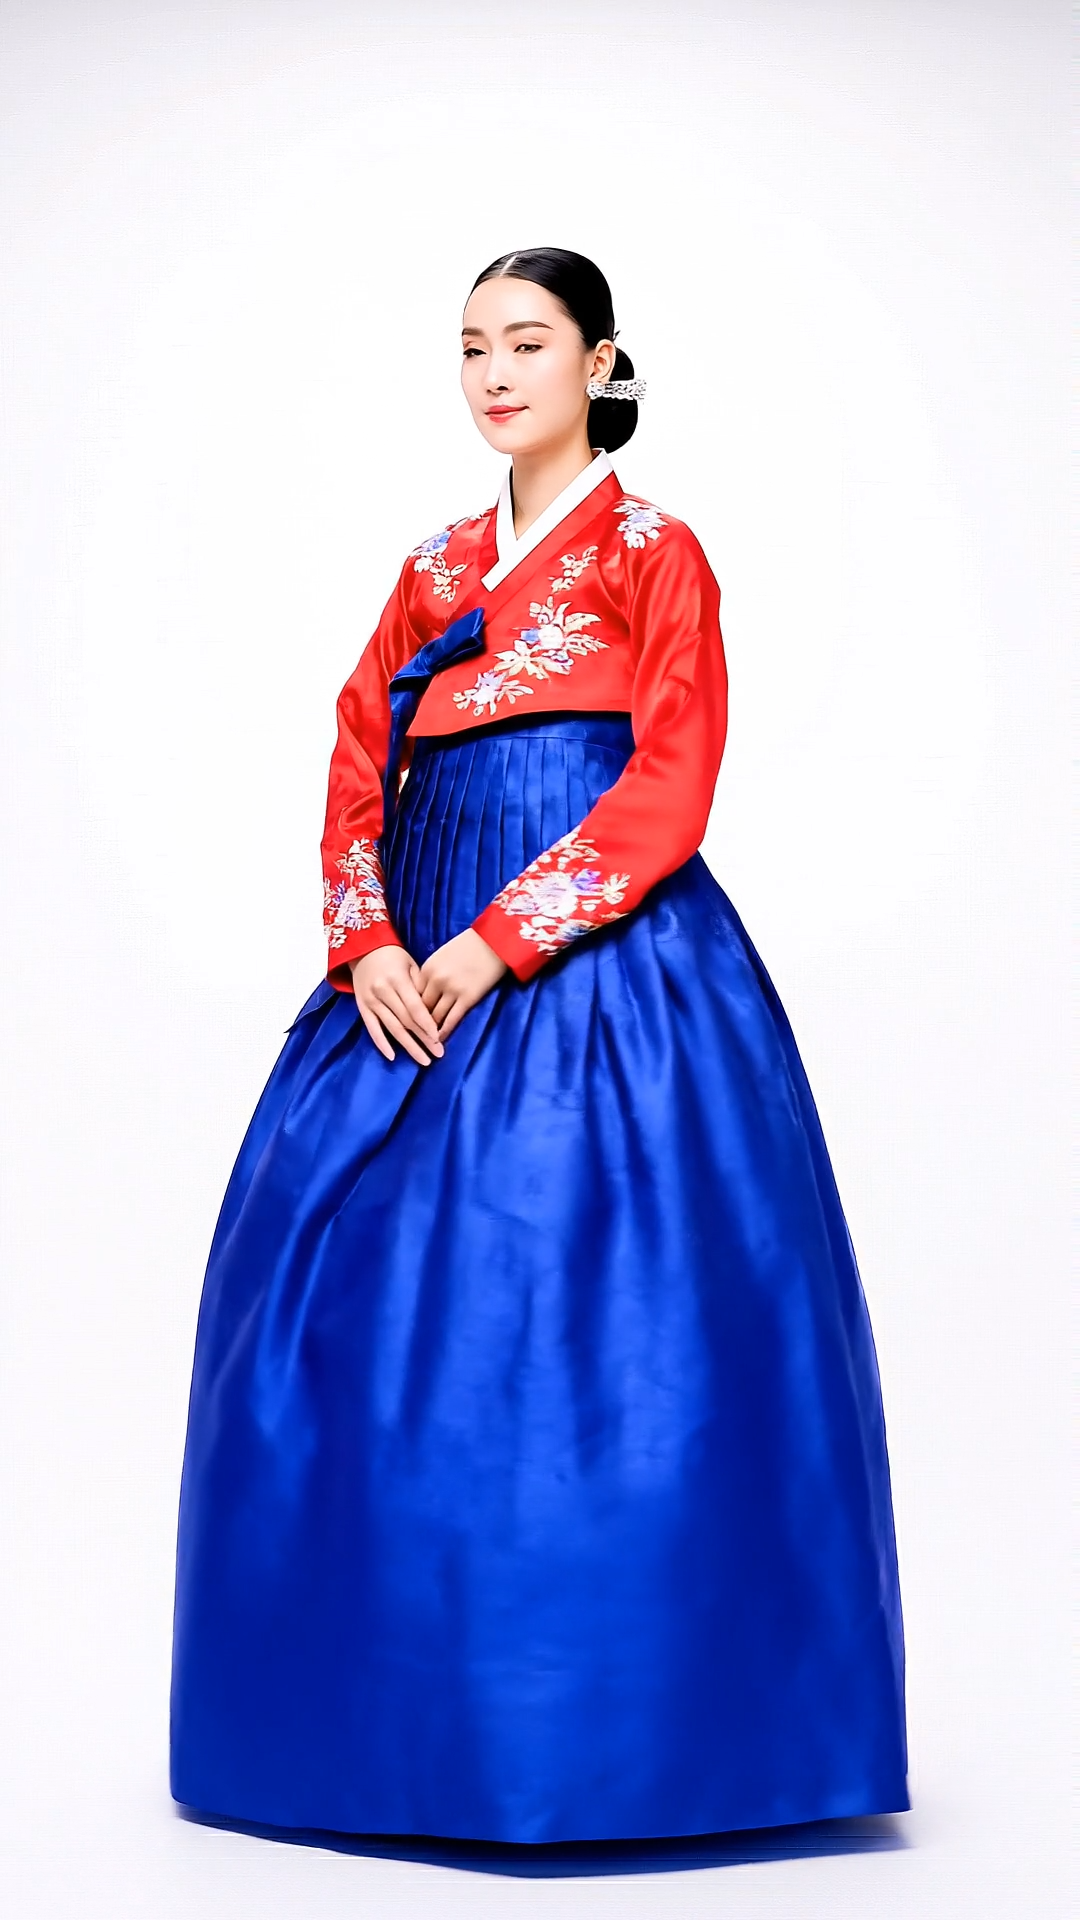
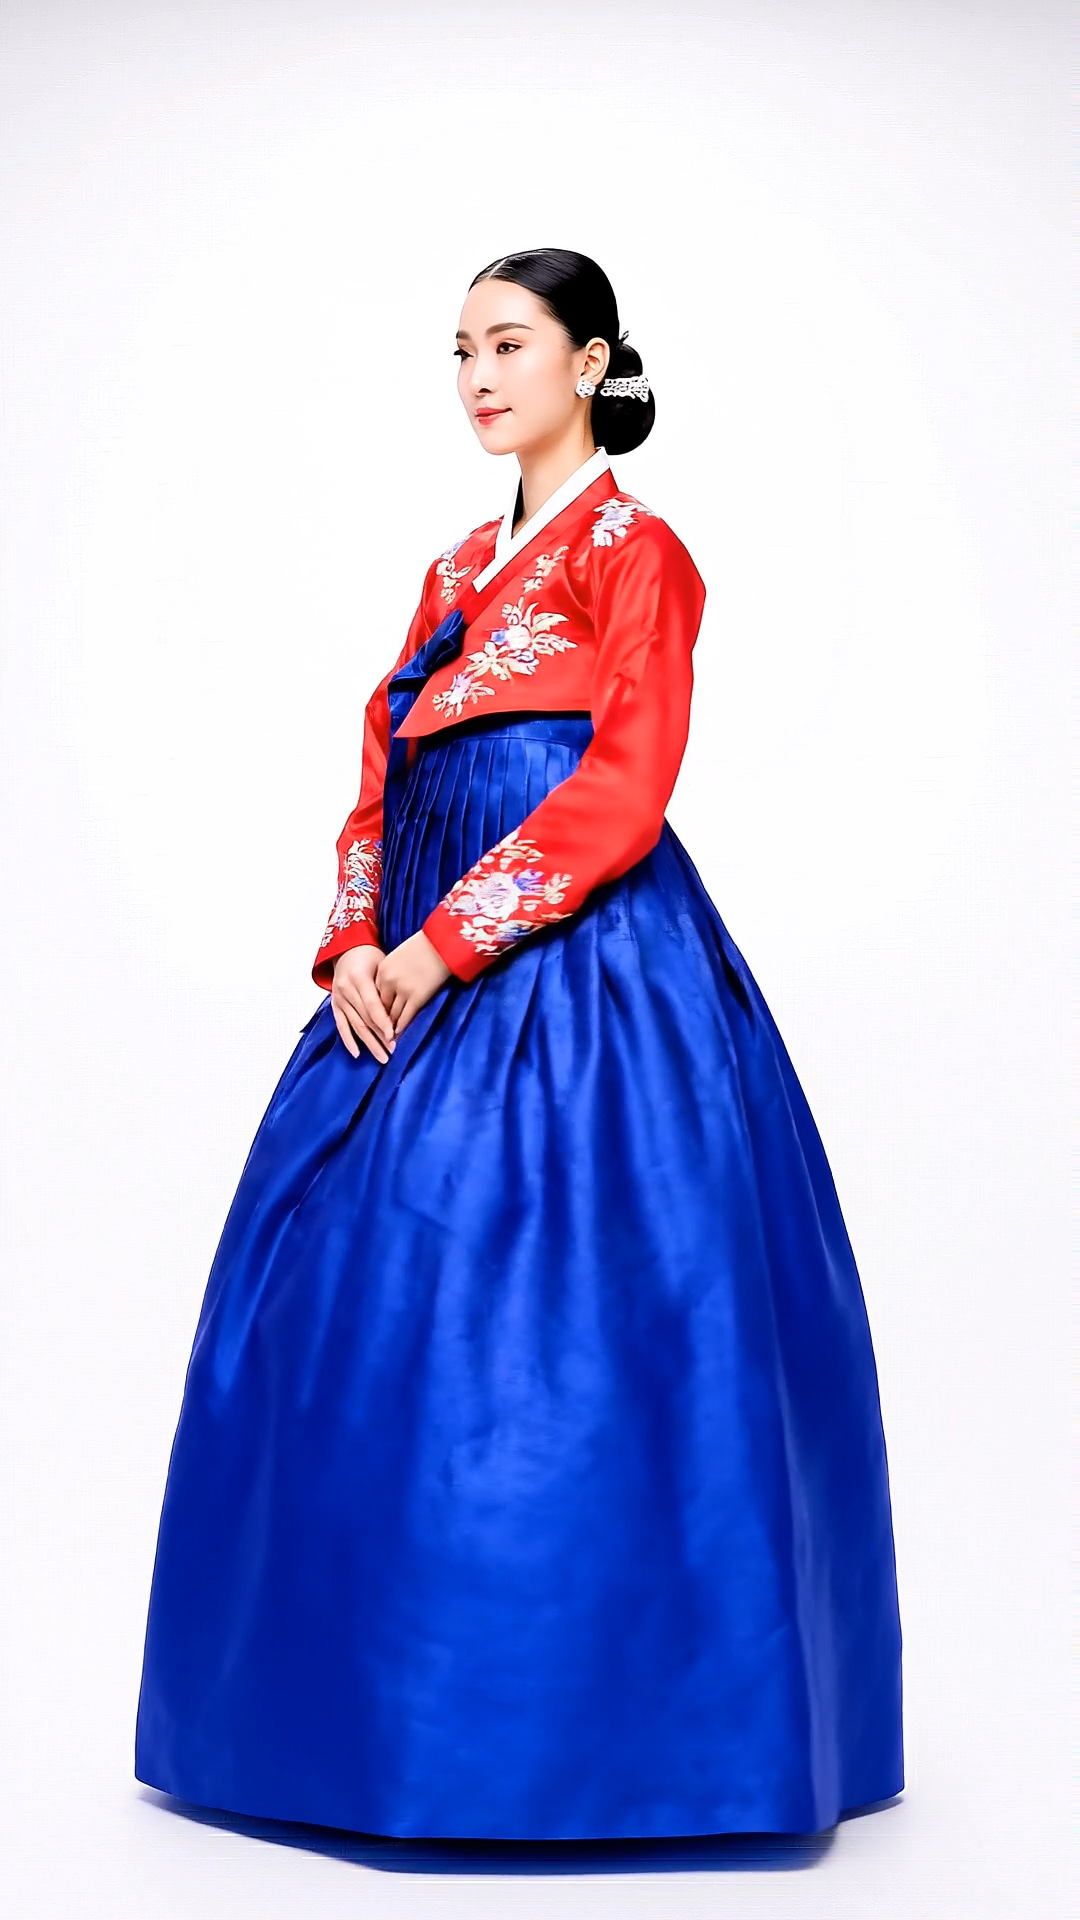
Updates

Changed region(s): [[0.1222, 0.125, 0.8556, 1.0]]

diff --git a/assets/index-Bmb3kIua.js b/assets/index-Bmb3kIua.js
@@ -204,7 +204,7 @@ Please change the parent <Route path="${L}"> to <Route path="${L==="/"?"*":`${L}
   min-height: 100vh;
   position: relative;
   z-index: ${({theme:n})=>n.zIndex.content};
-`,KO=()=>{const[n,a]=T.useState(!1);return Q.jsxs(Q.Fragment,{children:[Q.jsx(BO,{}),Q.jsx(zO,{onCartClick:()=>a(!0),cartCount:0}),Q.jsx(kO,{children:Q.jsx(AE,{})}),Q.jsx(NO,{}),Q.jsx(XO,{isOpen:n,onClose:()=>a(!1)})]})},Qi=29,ZO=1,KS=n=>`/select4/images/model-360-1/frame-${String(n+ZO).padStart(2,"0")}.png`,QO=Array.from({length:Qi},(n,a)=>KS(a)),PO=nt.div`
+`,KO=()=>{const[n,a]=T.useState(!1);return Q.jsxs(Q.Fragment,{children:[Q.jsx(BO,{}),Q.jsx(zO,{onCartClick:()=>a(!0),cartCount:0}),Q.jsx(kO,{children:Q.jsx(AE,{})}),Q.jsx(NO,{}),Q.jsx(XO,{isOpen:n,onClose:()=>a(!1)})]})},Qi=30,ZO=1,KS=n=>`/select4/images/model-360-1/frame-${String(n+ZO).padStart(2,"0")}.png`,QO=Array.from({length:Qi},(n,a)=>KS(a)),PO=nt.div`
   position: relative;
   width: 100%;
   height: 100%;

diff --git a/index.html b/index.html
@@ -5,7 +5,7 @@
     <link rel="icon" type="image/svg+xml" href="/select4/vite.svg" />
     <meta name="viewport" content="width=device-width, initial-scale=1.0" />
     <title>SELECT</title>
-    <script type="module" crossorigin src="/select4/assets/index-EBX5cd2E.js"></script>
+    <script type="module" crossorigin src="/select4/assets/index-Bmb3kIua.js"></script>
   </head>
   <body>
     <div id="root"></div>
